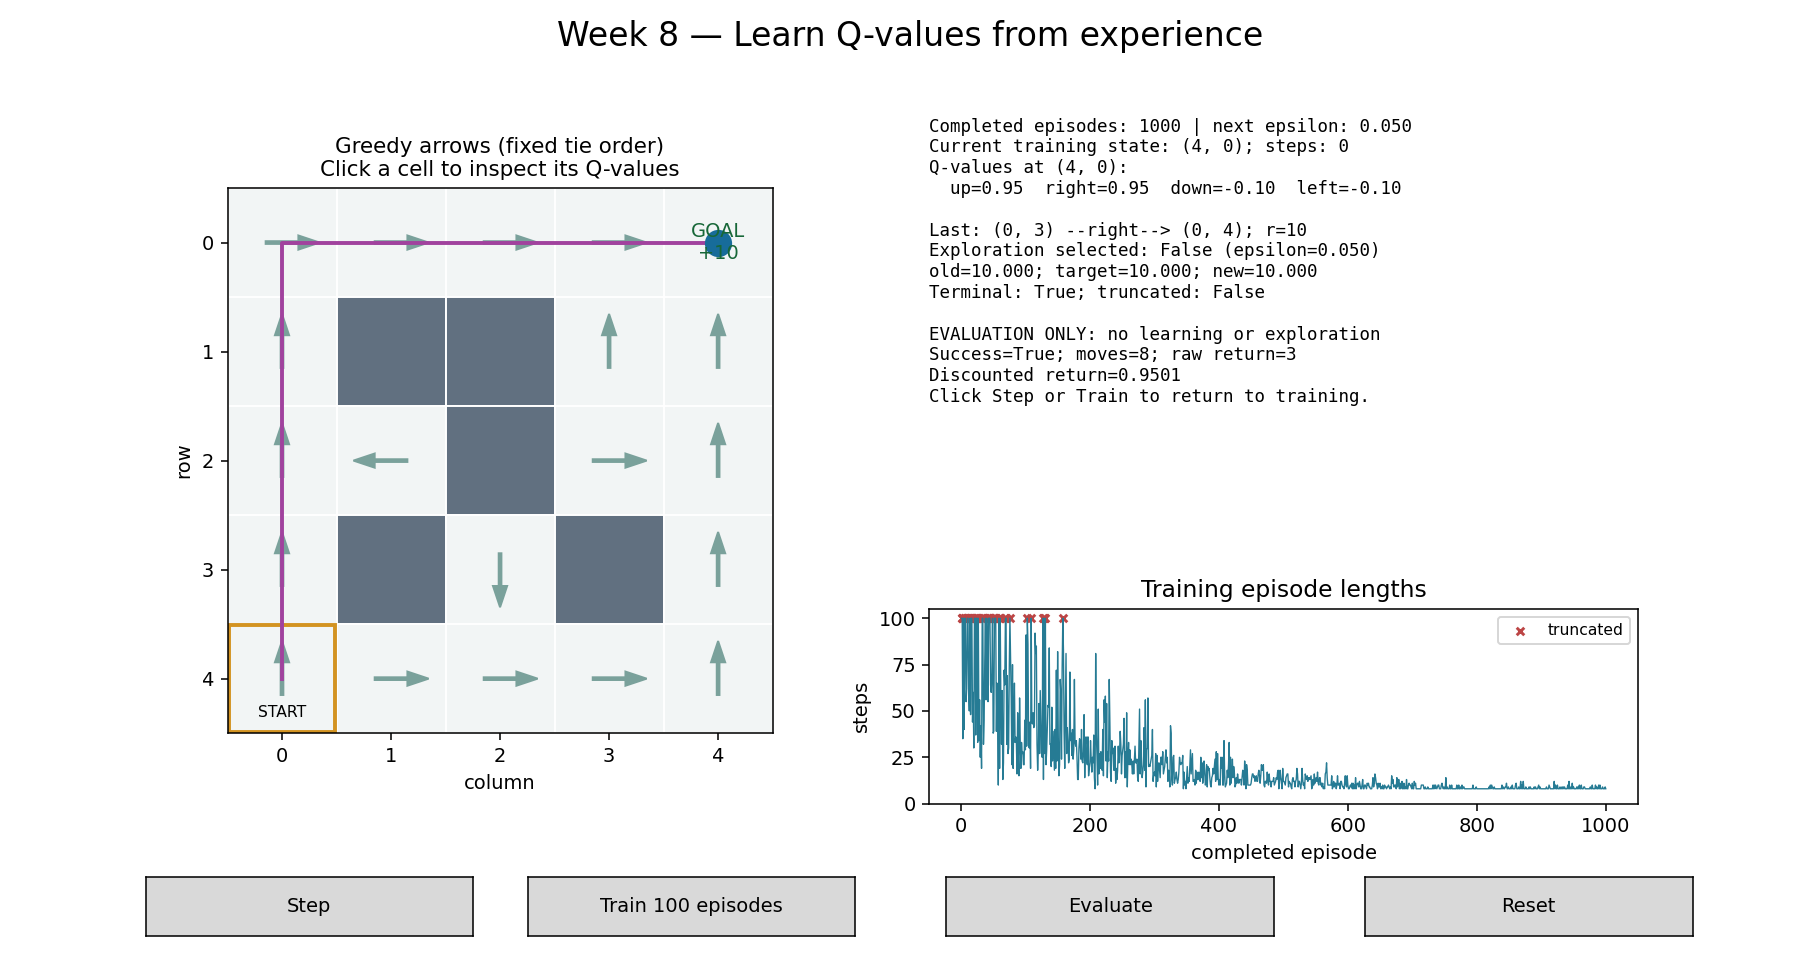
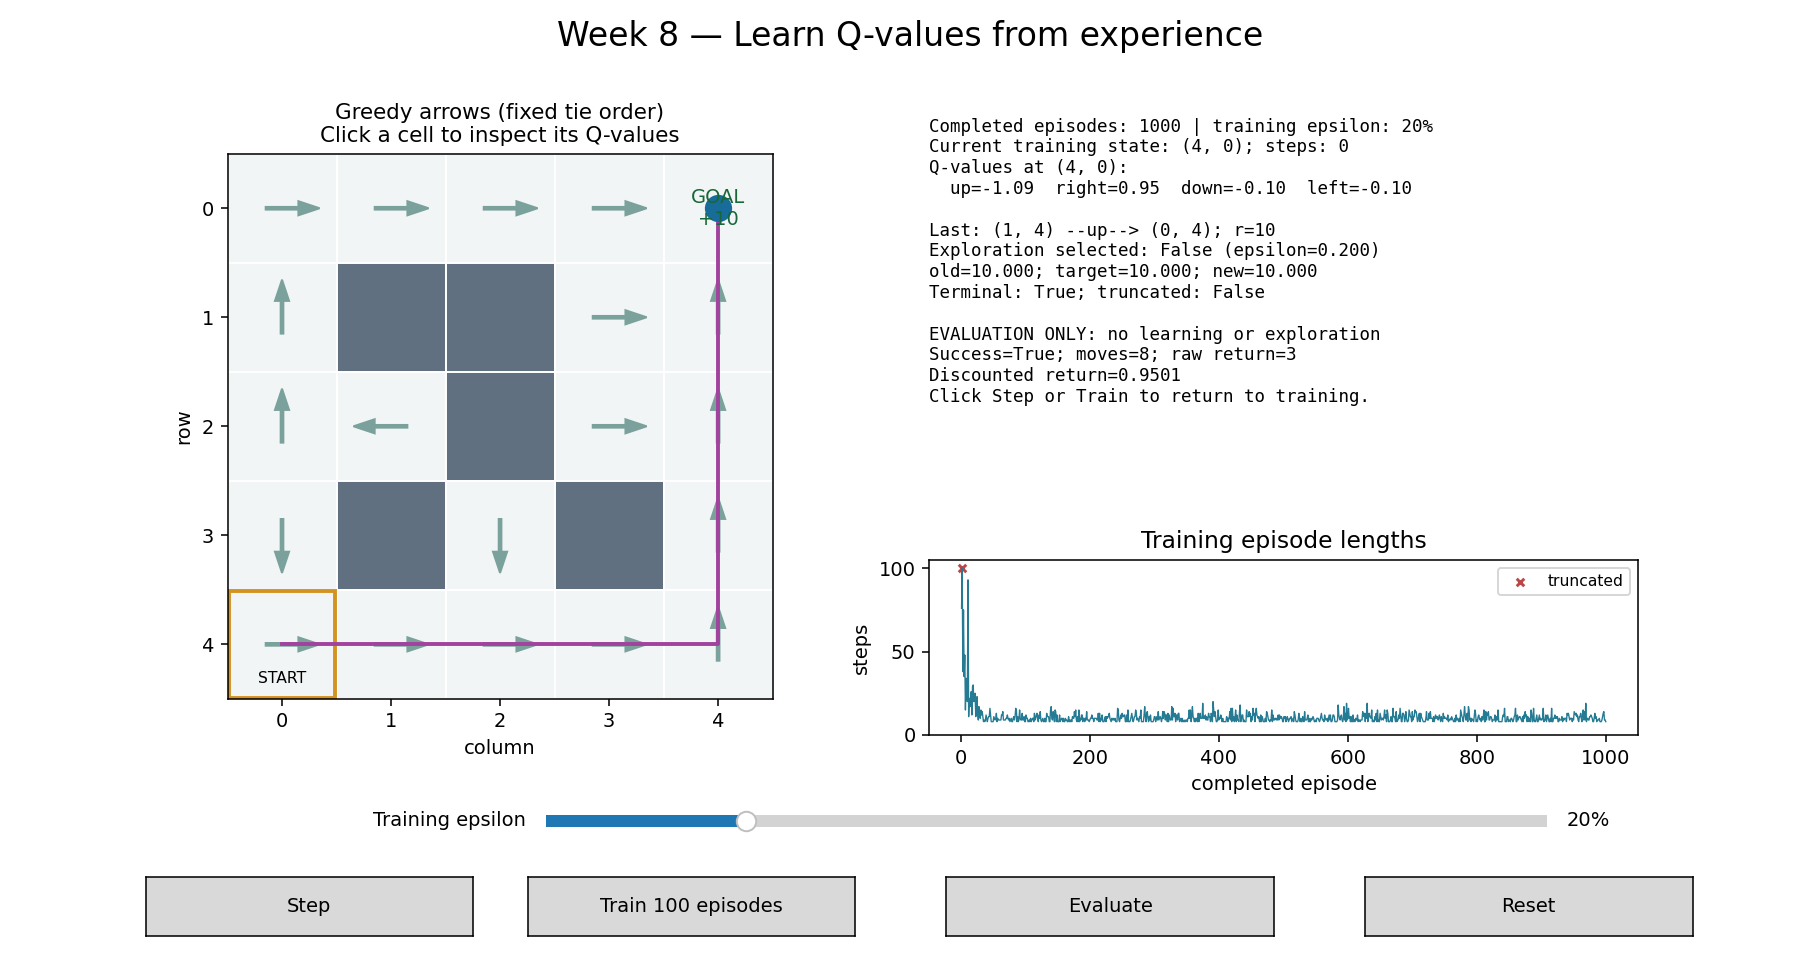
week 8 epsilon changing

diff --git a/week08_q_learning/demo/demo.py b/week08_q_learning/demo/demo.py
@@ -4,16 +4,16 @@ import json
 from pathlib import Path
 import numpy as np
 from gridworld import START, GOAL, WALLS, MOVES, NAMES, valid
-from learning import Learner, epsilon, evaluate
+from learning import Learner, TRAINING_EPSILON, evaluate
 
 
 class Demo:
-    def __init__(self, seed=7):
+    def __init__(self, seed=7, epsilon=TRAINING_EPSILON):
         import matplotlib.pyplot as plt
-        from matplotlib.widgets import Button
+        from matplotlib.widgets import Button, Slider
         self.plt=plt
         self.seed=seed
-        self.learner=Learner(seed)
+        self.learner=Learner(seed, epsilon)
         self.selected=START
         self.batch_target=None
         self.evaluation=None
@@ -23,16 +23,22 @@ class Demo:
         self.grid=self.fig.add_subplot(gs[:,0])
         self.panel=self.fig.add_subplot(gs[0,1])
         self.chart=self.fig.add_subplot(gs[1,1])
-        self.fig.subplots_adjust(bottom=.18,top=.88,wspace=.25,hspace=.35)
+        self.fig.subplots_adjust(bottom=.25,top=.88,wspace=.25,hspace=.35)
         self.buttons=[]
         for x,label,fn in [(.08,'Step',self.step),(.29,'Train 100 episodes',self.train_batch),(.52,'Evaluate',self.start_evaluation),(.75,'Reset',self.reset)]:
             b=Button(self.fig.add_axes([x,.045,.18,.06]),label)
             b.on_clicked(fn);self.buttons.append(b)
+        self.epsilon_slider=Slider(self.fig.add_axes([.30,.15,.55,.025]), 'Training epsilon', 0, 100, valinit=epsilon*100, valfmt='%0.0f%%', valstep=1)
+        self.epsilon_slider.on_changed(self.change_epsilon)
         self.fig.canvas.mpl_connect('button_press_event',self.select)
         self.fig.canvas.mpl_connect('close_event',lambda e:self.timer.stop())
         self.timer=self.fig.canvas.new_timer(interval=150)
         self.timer.add_callback(self.tick)
         self.timer.start()
+        self.render()
+
+    def change_epsilon(self, percent):
+        self.learner.set_epsilon(percent/100)
         self.render()
 
     def step(self,event=None):
@@ -53,7 +59,7 @@ class Demo:
         self.render()
 
     def reset(self,event=None):
-        self.learner=Learner(self.seed)
+        self.learner=Learner(self.seed, self.learner.epsilon)
         self.batch_target=self.evaluation=None
         self.frame=0;self.selected=START
         self.render()
@@ -95,7 +101,7 @@ class Demo:
         ax.set_title('Greedy arrows (fixed tie order)\nClick a cell to inspect its Q-values',fontsize=11)
         self.panel.clear();self.panel.axis('off')
         l=self.learner
-        lines=[f'Completed episodes: {l.episode} | next epsilon: {epsilon(l.episode):.3f}',
+        lines=[f'Completed episodes: {l.episode} | training epsilon: {l.epsilon:.0%}',
                f'Current training state: {l.state}; steps: {l.steps}',
                f'Q-values at {self.selected}:',
                '  '+'  '.join(f'{n}={v:.2f}' for n,v in zip(NAMES,l.q[self.selected])),'']
@@ -131,12 +137,13 @@ def save_results(learner,output):
     np.save(output/'q_table.npy',learner.q)
     result=evaluate(learner.q)
     (output/'metrics.json').write_text(json.dumps(dict(seed=learner.seed,episodes=learner.episode,
-         alpha=.2,gamma=.95,evaluation=result,training=learner.history),indent=2)+'\n')
+         alpha=.2,gamma=.95,training_epsilon=learner.epsilon,evaluation=result,training=learner.history),indent=2)+'\n')
     print(json.dumps({k:v for k,v in result.items() if k != "path"},indent=2))
 
 
 def main():
     p=argparse.ArgumentParser(description=__doc__)
+    p.add_argument('--epsilon',type=float,default=TRAINING_EPSILON,help='Training exploration probability, 0 to 1 (default: 0.2).')
     p.add_argument('--seed',type=int,default=7)
     p.add_argument('--episodes',type=int,default=1000,help='Headless/export training count; GUI starts untrained.')
     p.add_argument('--headless',action='store_true')
@@ -144,10 +151,11 @@ def main():
     p.add_argument('--output',type=Path,default=Path(__file__).with_name('output'))
     a=p.parse_args()
     if a.episodes<0 or a.seed<0:p.error('Episodes and seed must be nonnegative.')
+    if not np.isfinite(a.epsilon) or not 0<=a.epsilon<=1:p.error('Epsilon must be between 0 and 1.')
     if a.headless or a.export:
         import matplotlib
         matplotlib.use('Agg')
-        app=Demo(a.seed)
+        app=Demo(a.seed,a.epsilon)
         output=a.export or a.output
         output.mkdir(parents=True,exist_ok=True)
         if a.export:app.fig.savefig(output/'before.png',dpi=140)
@@ -158,7 +166,7 @@ def main():
             app.fig.savefig(output/'after.png',dpi=140)
         app.plt.close(app.fig)
     else:
-        app=Demo(a.seed);app.plt.show()
+        app=Demo(a.seed,a.epsilon);app.plt.show()
 
 
 if __name__=='__main__':main()

diff --git a/week08_q_learning/demo/test_demo.py b/week08_q_learning/demo/test_demo.py
@@ -8,7 +8,7 @@ from pathlib import Path
 import unittest
 import numpy as np
 from gridworld import START, GOAL, WALLS, MOVES, transition
-from learning import Learner, update, epsilon, evaluate
+from learning import Learner, update, TRAINING_EPSILON, evaluate
 from demo import Demo, save_results
 
 
@@ -28,15 +28,32 @@ class Tests(unittest.TestCase):
         d=update(q,(0,3),1,10,GOAL,True)
         self.assertEqual(d['target'],10);self.assertEqual(d['new'],2)
 
-    def test_truncation_and_schedule(self):
+    def test_truncation_and_constant_exploration(self):
         l=Learner();l.steps=99;l.q[:]=4
         d=l.step()
         self.assertTrue(d['truncated']);self.assertFalse(d['terminated'])
         self.assertAlmostEqual(d['target'],2.8)
         self.assertEqual(l.history[0]['length'],100)
         self.assertEqual(l.state,START);self.assertEqual(l.episode,1)
-        self.assertEqual(epsilon(0),1);self.assertAlmostEqual(epsilon(400),.5)
-        self.assertEqual(epsilon(1000),.05)
+        self.assertEqual(TRAINING_EPSILON,.2)
+        for episode in [0,100,1000]:
+            learner=Learner();learner.episode=episode
+            self.assertEqual(learner.step()["epsilon"],.2)
+
+    def test_adjustable_epsilon(self):
+        for value in [-.1,1.1,float("nan")]:
+            with self.assertRaises(ValueError):Learner(epsilon=value)
+        app=Demo()
+        app.step();q=app.learner.q.copy()
+        app.epsilon_slider.set_val(100)
+        np.testing.assert_array_equal(q,app.learner.q)
+        app.step();self.assertTrue(app.learner.last["exploratory"])
+        app.epsilon_slider.set_val(0)
+        app.step();self.assertFalse(app.learner.last["exploratory"])
+        app.epsilon_slider.set_val(35)
+        app.reset();self.assertEqual(app.learner.epsilon,.35)
+        self.assertEqual(app.epsilon_slider.val,35)
+        app.plt.close(app.fig)
 
     def test_reproducibility_and_evaluation_isolation(self):
         a,b=Learner(),Learner();a.train(100);b.train(100)

diff --git a/week08_q_learning/demo/learning.py b/week08_q_learning/demo/learning.py
@@ -3,8 +3,7 @@ import numpy as np
 from gridworld import START, transition
 
 
-def epsilon(episode):
-    return max(.05, 1-episode/800)
+TRAINING_EPSILON = 0.2
 
 
 def update(q, state, action, reward, nxt, terminated, alpha=.2, gamma=.95):
@@ -16,7 +15,8 @@ def update(q, state, action, reward, nxt, terminated, alpha=.2, gamma=.95):
 
 
 class Learner:
-    def __init__(self, seed=7):
+    def __init__(self, seed=7, epsilon=TRAINING_EPSILON):
+        self.set_epsilon(epsilon)
         self.seed = seed
         self.rng = np.random.default_rng(seed)
         self.q = np.zeros((5,5,4))
@@ -26,9 +26,14 @@ class Learner:
         self.history = []
         self.last = None
 
+    def set_epsilon(self, value):
+        if not np.isfinite(value) or not 0 <= value <= 1:
+            raise ValueError("Epsilon must be finite and between 0 and 1.")
+        self.epsilon = float(value)
+
     def step(self):
         state = self.state
-        eps = epsilon(self.episode)
+        eps = self.epsilon
         exploratory = bool(self.rng.random() < eps)
         action = int(self.rng.integers(4)) if exploratory else int(self.rng.choice(np.flatnonzero(self.q[state] == self.q[state].max())))
         nxt, reward, terminated = transition(state, action)

diff --git a/week08_q_learning/demo/README.md b/week08_q_learning/demo/README.md
@@ -19,13 +19,15 @@ NumPy 1.26.4 and Matplotlib 3.6.3. Temporary environments can be recreated after
 
 ## Controls
 
+- **Training epsilon slider:** choose 0–100% exploration (default 20%). Changes apply to subsequent training actions without clearing Q-values. There is no automatic decay; evaluation always stays greedy.
+
 - **Step:** one training transition and Q update. It exits evaluation without clearing training.
 - **Train 100 episodes:** finish 100 more episodes, including the current partial
   episode. The window refreshes after each episode. Step/Evaluate wait until the batch ends;
   Reset can interrupt it. Ten batches reach 1,000 completed episodes.
 - **Evaluate:** animate a greedy rollout from the start. Q, training position,
   episode history, and training RNG are preserved. Step/Train return to training.
-- **Reset:** restore seed, zero Q-table, initial state, and empty history.
+- **Reset:** restore seed, zero Q-table, initial state, and empty history, keeping your selected epsilon.
 - Click a free cell to inspect its four Q-values. Close the window to stop.
 
 The blue marker is the current agent, green arrows use fixed up/right/down/left
@@ -41,8 +43,8 @@ walls `(1,1)`, `(1,2)`, `(2,2)`, `(3,1)`, `(3,3)`. Moves are up/right/down/left.
 Blocked moves stay put. Each ordinary transition gives −1; goal arrival gives +10
 instead and terminates. A 100-step cap truncates collection and retains bootstrapping.
 
-Zero Q-table; alpha=.2; gamma=.95; seed 7; epsilon=`max(.05,1−episode/800)` with
-episode 0 first. Training uses sampled transitions, not a route planner.
+Zero Q-table; alpha=.2; gamma=.95; seed 7; default training epsilon=0.2 (20% random actions, 80% greedy).
+Evaluation uses epsilon=0. Training uses sampled transitions, not a route planner.
 
 After 1,000 episodes, expected greedy evaluation:
 
@@ -51,7 +53,7 @@ success: true
 length: 8
 raw_return: 3.0
 discounted_return: 0.9501188828124985
-path: (4,0) → (3,0) → (2,0) → (1,0) → (0,0) → (0,1) → (0,2) → (0,3) → (0,4)
+path: (4,0) → (4,1) → (4,2) → (4,3) → (4,4) → (3,4) → (2,4) → (1,4) → (0,4)
 ```
 
 Seven −1 rewards precede +10. Discounting produces a different sum than raw rewards.
@@ -67,6 +69,7 @@ python week08_q_learning/demo/demo.py --export /tmp/week08-figures
 python -m unittest discover -s week08_q_learning/demo -p 'test_*.py' -v
 ```
 
+Use `--epsilon 0.35` to start with 35% exploration in the GUI or headless run.
 GUI starts untrained. `--episodes` controls headless/export training only.
 Headless commands save `q_table.npy` and `metrics.json` (settings, training history,
 and evaluation path/returns). Default output is `demo/output/`, ignored by Git.

diff --git a/week08_q_learning/TEACHING_NOTES.md b/week08_q_learning/TEACHING_NOTES.md
@@ -37,7 +37,7 @@ For true termination, target is reward only. Interpret alpha as how far to move 
 - First goal transition: old Q=0, reward=10, terminal target=10, new Q=2.
 - Hitting the 100-step cap is **truncation**, not reaching a terminal state. Keep the bootstrap term, then restart data collection from the start. Time is not part of this task's state; the cap is an external collection limit.
 
-Defaults: zero Q-table, alpha=.2, gamma=.95, seed 7, 1,000 training episodes. Epsilon is `max(.05,1−episode/800)` with zero-based episode indexing. These finite-run settings are practical teaching defaults, not a general convergence guarantee.
+Defaults: zero Q-table, alpha=.2, gamma=.95, seed 7, 1,000 training episodes. Training epsilon defaults to 0.2: 20% random exploration and 80% greedy selection. The slider changes it for subsequent training actions without clearing Q-values; it stays fixed until changed manually. Evaluation uses epsilon=0. These finite-run settings are practical teaching defaults, not a general convergence guarantee.
 
 ## Live Demo
 
@@ -48,7 +48,7 @@ Use the [runbook](demo/README.md).
 - **5 min:** continue training toward 1,000 episodes; evaluate the greedy route. Show that training can take extra exploratory moves even after a good route is learned.
 - **4 min:** compare initial/final figures, raw versus discounted return, and reset behavior.
 
-Expected default outcome: success in 8 moves, raw return 3, discounted return .950119. Example route goes up the left column and right across the top. Other seeds may choose another equally short route.
+Expected default outcome: success in 8 moves, raw return 3, discounted return .950119. The default route goes right across the bottom row and up the right column. Other seeds may choose another equally short route.
 
 Checkpoint answers: the environment supplies reward, not a correct action label; the max chooses the greedy target action; exploration selects behavior; evaluation changes neither Q nor the training random generator. Repeating a deterministic evaluation from the same start is not independent evidence of robustness.
 

diff --git a/week08_q_learning/PRESENTATION_PLAN.md b/week08_q_learning/PRESENTATION_PLAN.md
@@ -32,7 +32,7 @@ A compact explanation followed by a focused 17-minute demonstration.
 
 - Epsilon-greedy: random action with probability epsilon, greedy otherwise.
 - Exploration can choose a greedy action by chance.
-- Show decreasing epsilon with a .05 floor.
+- Default training epsilon is .2: 20% random exploration, 80% greedy selection. Use the slider to compare exploration levels; there is no automatic decay. Evaluation uses epsilon=0.
 
 ## Slide 7 — The Q-Learning Update
 
